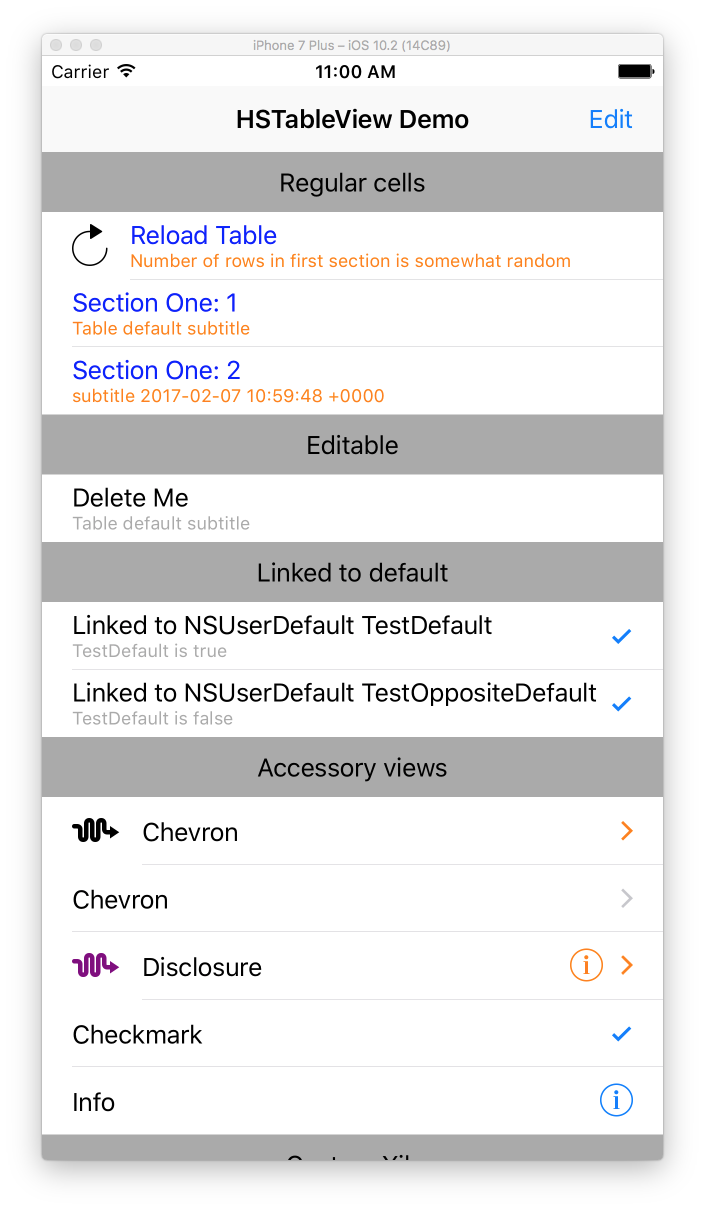
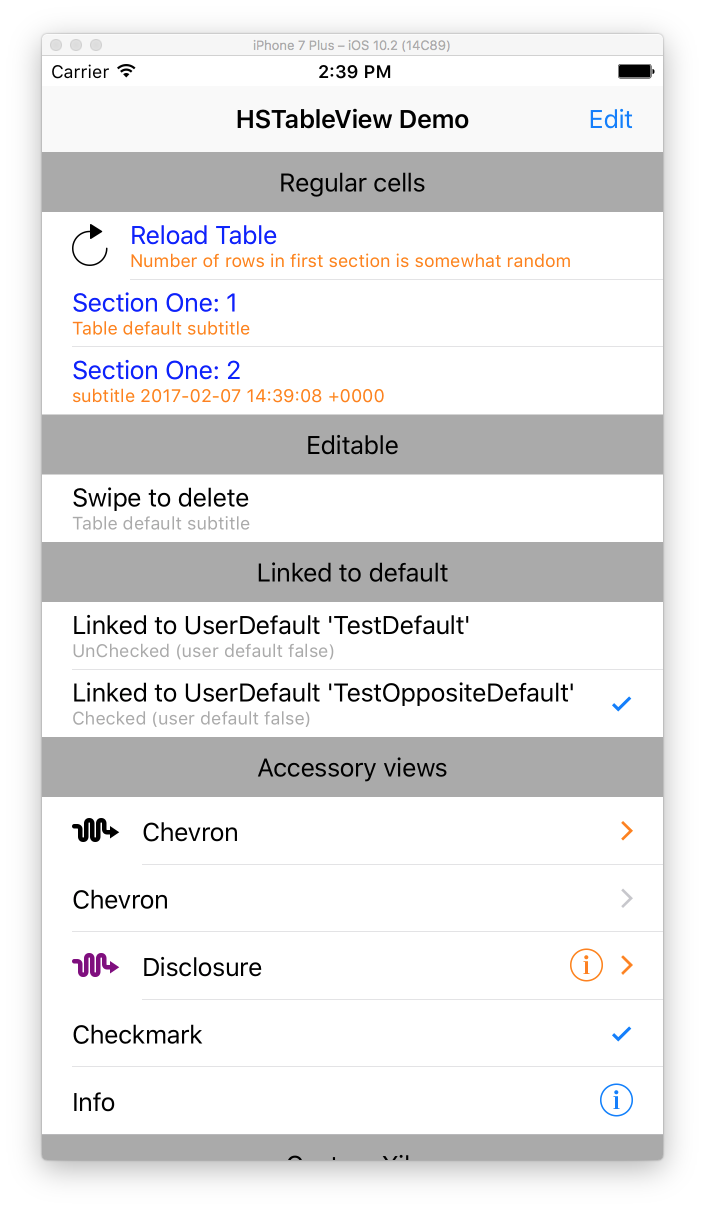
generic checkmark handler

diff --git a/HSTableView/HSTVRowInfoHelpers.swift b/HSTableView/HSTVRowInfoHelpers.swift
@@ -8,53 +8,75 @@
 
 import UIKit
 
+
 extension HSTVRowInfo {
     
+    
     /**
-     Convenience function that uses the click handler and styleBeforeDisplay handler to link a row to an NSUserDefault
-     The checkmark shows the value of the default (or the opposite if checkmarkShowsForFalse is true)
+     Convenience function that uses the click handler and styleBeforeDisplay handler to update a checkmark
+     The get and set functions let you deal with the result
      The true and false subtitles give the user more info. (Note - if you set one of these, you must set both)
- */
-    public func linkTo(userDefault:String, trueSubtitle: String?, falseSubtitle: String?, checkmarkShowsForFalse: Bool = false){
+     */
+    public func handleCheckmark(checkedSubtitle: String?, uncheckedSubtitle: String?, get:@escaping () -> Bool, set:@escaping (Bool) -> Void){
         
-        assert( (trueSubtitle != nil && falseSubtitle != nil) || (trueSubtitle == nil && falseSubtitle == nil),"If you provide a trueSubtitle, or falseSubtitle, you must provide both")
+        assert( (checkedSubtitle != nil && uncheckedSubtitle != nil) || (checkedSubtitle == nil && uncheckedSubtitle == nil),"If you provide a trueSubtitle, or falseSubtitle, you must provide both")
         
         self.clickHandler = {
             (row) in
-            let currentValue=UserDefaults.standard.bool(forKey: userDefault)
-            UserDefaults.standard.set(!currentValue, forKey: userDefault)
+            let currentValue=get()
+            set(!currentValue)
             row.redrawCell(UITableViewRowAnimation.fade)
         };
         
         self.styleBeforeDisplayHandler = {
             (row,cell) in
-            let value=UserDefaults.standard.bool(forKey: userDefault)
-            var checkmarkValue = value
-            if checkmarkShowsForFalse {
-                checkmarkValue = !value
-            }
+            let value=get()
+            let checkmarkValue = value
+            
             if (value)
             {
-                if (trueSubtitle != nil)
+                if (checkedSubtitle != nil)
                 {
-                    cell.detailTextLabel?.text=trueSubtitle
+                    cell.detailTextLabel?.text=checkedSubtitle
                 }
             }
             else
             {
-                if (falseSubtitle != nil)
+                if (uncheckedSubtitle != nil)
                 {
-                    cell.detailTextLabel?.text=falseSubtitle
+                    cell.detailTextLabel?.text=uncheckedSubtitle
                 }
             }
             
             cell.accessoryType = checkmarkValue ? UITableViewCellAccessoryType.checkmark : UITableViewCellAccessoryType.none
+            
         }
     }
     
-
     
-
+    /**
+     Convenience function that uses the click handler and styleBeforeDisplay handler to link a row to an NSUserDefault
+     The checkmark shows the value of the default (or the opposite if checkmarkShowsForFalse is true)
+     The true and false subtitles give the user more info. (Note - if you set one of these, you must set both)
+     */
+    public func handleCheckmark(userDefault:String, checkedSubtitle: String?, uncheckedSubtitle: String?, checkmarkShowsForFalse: Bool = false){
+        
+        
+        handleCheckmark(checkedSubtitle: checkedSubtitle,
+                        uncheckedSubtitle: uncheckedSubtitle,
+                        get: { () -> Bool in
+                            let value=UserDefaults.standard.bool(forKey: userDefault)
+                            return checkmarkShowsForFalse ? !value : value
+        }) { (newValue) in
+            let value = checkmarkShowsForFalse ? !newValue : newValue
+            UserDefaults.standard.set(value, forKey: userDefault)
+        }
+        
+    }
+    
+    
+    
+    
     /// Simple delete handler that just gets rid of the row
     /// You can use this as 'row.deleteHandler=row.simpleDeleteHandler'
     ///

diff --git a/DemoProject/Demo/ViewController.swift b/DemoProject/Demo/ViewController.swift
@@ -87,12 +87,17 @@ class ViewController: UIViewController {
         //Row value is linked to the user default 'TestDefault'
         self.table.addSection("Linked to default")
         row = HSTVRowInfo(title: "Linked to UserDefault 'TestDefault'")
-        row.linkTo(userDefault:"TestDefault", trueSubtitle: "TestDefault is true", falseSubtitle: "TestDefault is false")
+        row.handleCheckmark(userDefault:"TestDefault",
+                            checkedSubtitle: "Checked (user default true)",
+                            uncheckedSubtitle: "UnChecked (user default false)")
         table += row
         
         //Row value is linked to the user default 'TestDefault', but checkmark shows when value is false
-        row = HSTVRowInfo(title: "Linked to UserDefault TestOppositeDefault")
-        row.linkTo(userDefault:"TestOppositeDefault", trueSubtitle: "TestDefault is true", falseSubtitle: "TestDefault is false", checkmarkShowsForFalse: true)
+        row = HSTVRowInfo(title: "Linked to UserDefault 'TestOppositeDefault'")
+        row.handleCheckmark(userDefault:"TestOppositeDefault",
+                            checkedSubtitle: "Checked (user default false)",
+                            uncheckedSubtitle: "UnChecked (user default true)",
+                            checkmarkShowsForFalse: true)
         table += row
         
         //Various accessory views
@@ -175,7 +180,6 @@ class ViewController: UIViewController {
             cell.detailTextLabel?.textColor=UIColor.white
         }
         section.info.reuseIdentifier="orange"
-        
         
         self.table.applyDataUpdate()
     }

diff --git a/README.md b/README.md
@@ -128,12 +128,17 @@ this function completely defines the example table
         //Row value is linked to the user default 'TestDefault'
         self.table.addSection("Linked to default")
         row = HSTVRowInfo(title: "Linked to UserDefault 'TestDefault'")
-        row.linkTo(userDefault:"TestDefault", trueSubtitle: "TestDefault is true", falseSubtitle: "TestDefault is false")
+        row.handleCheckmark(userDefault:"TestDefault",
+                            checkedSubtitle: "Checked (user default true)",
+                            uncheckedSubtitle: "UnChecked (user default false)")
         table += row
         
         //Row value is linked to the user default 'TestDefault', but checkmark shows when value is false
-        row = HSTVRowInfo(title: "Linked to UserDefault TestOppositeDefault")
-        row.linkTo(userDefault:"TestOppositeDefault", trueSubtitle: "TestDefault is true", falseSubtitle: "TestDefault is false", checkmarkShowsForFalse: true)
+        row = HSTVRowInfo(title: "Linked to UserDefault 'TestOppositeDefault'")
+        row.handleCheckmark(userDefault:"TestOppositeDefault",
+                            checkedSubtitle: "Checked (user default false)",
+                            uncheckedSubtitle: "UnChecked (user default true)",
+                            checkmarkShowsForFalse: true)
         table += row
         
         //Various accessory views
@@ -216,7 +221,6 @@ this function completely defines the example table
             cell.detailTextLabel?.textColor=UIColor.white
         }
         section.info.reuseIdentifier="orange"
-        
         
         self.table.applyDataUpdate()
     }
